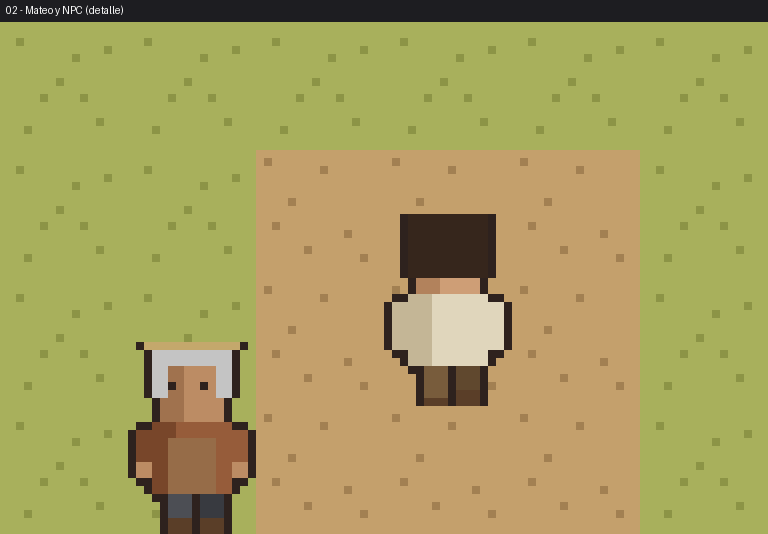
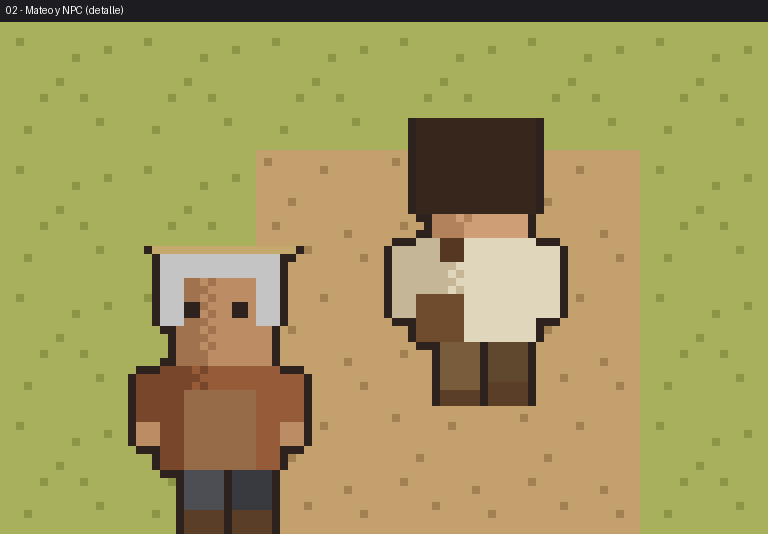
Fase 2 (iteración): documentación y evidencia visual actualizada
Cierra la iteración de fidelidad de personaje post-feedback: hoja de
diseño de personaje, mockup de pueblo ampliado, prompts para ruta de
IA externa, y actualización de ART_BIBLE/PROGRESS/CHANGELOG.

Claude-Session: https://claude.ai/code/session_01JiDXv5Gpd2daCXYkNaACtU

Changed region(s): [[0.1562, 0.4494, 0.4062, 1.0], [0.5, 0.2097, 0.75, 0.779]]

diff --git a/game-client/ART_PROMPTS_EXTERNAL_AI.md b/game-client/ART_PROMPTS_EXTERNAL_AI.md
@@ -1,0 +1,144 @@
+# ART_PROMPTS_EXTERNAL_AI.md — LEGADO: PERÚ
+
+Prompts de referencia para producir arte de mayor fidelidad con una herramienta de generación de imágenes (Midjourney, Stable Diffusion, DALL·E, etc.) que el usuario ejecute externamente. **Yo no tengo acceso a ningún generador de imágenes en este entorno** — este documento existe para que tú (u otra persona con esa herramienta) puedas producir arte de referencia/mayor calidad, que luego yo integro al proyecto (import a Unity, ajuste de paleta/tamaño, slicing si aplica).
+
+## Cómo usar este documento
+
+1. Copia el prompt de la sección que necesites en tu herramienta de generación de imágenes.
+2. Genera varias variantes y elige la que mejor encaje.
+3. Pásame la imagen resultante (o dime dónde la dejaste) — la integro al pipeline (recorte, paleta, importación a Unity) y actualizo `ART_BIBLE_v0.1.md`/`HISTORICAL_RESEARCH.md` según corresponda.
+4. Todo lo generado con estos prompts sigue sujeto a la Regla de la Fase 2: **nada de estilo Pokémon ni de ningún juego existente**, identidad visual peruana, sin filtro "sepia".
+
+## Reglas para cualquier prompt que uses (inclúyelas siempre)
+
+- `original character design, NOT Pokemon, NOT based on any existing game or franchise`
+- `Peruvian coastal identity (Pisco/Paracas region, 1820), historically-inspired but not photorealistic`
+- `flat/limited color palette suitable for a 2D top-down RPG, no sepia/vintage photo filter — colors are vivid and period-accurate, not faded`
+- Si generas sprites de personaje: `top-down 3/4 perspective RPG sprite, NOT front-facing portrait` (los modelos de imagen tienden a dar retratos frontales por defecto; hay que insistir en la perspectiva cenital).
+
+---
+
+## 1. Mateo Salazar — Juventud (17 años, protagonista del vertical slice)
+
+```
+Original pixel-art RPG character sprite sheet, top-down 3/4 perspective (Game Boy Advance
+era RPG style — Golden Sun/early 2000s handheld RPG aesthetic), NOT Pokemon, NOT based on
+any existing game.
+
+Character: Mateo Salazar, 17 years old, young man from a coastal Peruvian merchant/
+transport family, Pisco/Paracas region, September 1820. NOT a fantasy hero — an ordinary
+working-class young man. Short dark brown hair, warm olive-tan skin, cream/off-white linen
+shirt, rolled brown trousers, leather sandals, a rust-red woven sash (faja) at the waist,
+a small brown leather satchel bag crossed over one shoulder. No hat.
+
+Sprite sheet layout: 4 directions (down/front, up/back, left, right), 3 frames per
+direction (idle, walk step A, walk step B). Flat 2D pixel art, 1px dark brown outline
+(not pure black), 3-tone cel shading with a light dithered transition between shadow and
+base tones (no smooth gradients). Character proportions: slightly large head (mild chibi
+ratio), body about 1.5 tiles wide x 2.25 tiles tall relative to a 16px tile grid.
+
+Peruvian coastal identity, historically-inspired clothing (NEEDS validation against real
+sources), vivid arid/ocher coastal color palette — no sepia or vintage filter.
+```
+
+## 2. Mateo Salazar — Niñez (~7 años)
+
+```
+Same original character (Mateo Salazar) as a ~7 year old child, same pixel-art RPG sprite
+style (top-down 3/4, GBA-era handheld RPG aesthetic, NOT Pokemon). Exaggerated chibi
+proportions (larger head, shorter torso and legs than the adult version), barefoot, simple
+cream shirt, no sash, no satchel, no accessories yet. Same dark brown hair and warm skin
+tone as the adult version for visual continuity across life stages. 4-direction sprite
+sheet (down/up/left/right), 3 frames each (idle + 2 walk frames), same flat shading +
+light dithering style as the reference adult sprite.
+```
+
+## 3. NPC — Anciano Pescador (Pisco/Paracas, ambientación)
+
+```
+Original pixel-art RPG NPC sprite, top-down 3/4 perspective, GBA-era handheld RPG
+aesthetic, NOT Pokemon, NOT based on any existing game.
+
+Character: elderly Peruvian fisherman, coastal Pisco/Paracas 1820. Grey short hair, wide-
+brim straw/palm hat, weathered warm-brown skin, rust/ochre work shirt, dark grey rolled
+trousers, simple apron. Distinct silhouette from a younger character (stockier build, hat,
+apron) — must NOT read as a recolor of a young character. 4-direction sprite sheet
+(down/up/left/right), 3 frames each. Same flat cel-shading + dithered transitions style,
+1px dark brown outline. Vivid coastal color palette, no sepia filter.
+```
+
+## 4. NPC — Comerciante (mercado, referencia de variedad)
+
+```
+Original pixel-art RPG NPC sprite, top-down 3/4 perspective, GBA-era handheld RPG
+aesthetic, NOT Pokemon.
+
+Character: Peruvian coastal trader/shopkeeper, coastal Pisco/Paracas 1820. Short dark
+hair, no hat, deep indigo/purple-dyed shirt (indicates a merchant who can afford dyed
+cloth, contrast with working-class characters), dark grey trousers. Confident stance.
+Silhouette and palette must be clearly distinct from both Mateo and the fisherman NPC —
+no recolors. 4-direction sprite sheet, 3 frames each, same shading/outline style as the
+other sprites for consistency.
+```
+
+## 5. Casa Salazar (exterior)
+
+```
+Original pixel-art RPG building exterior, top-down 3/4 perspective, GBA-era handheld RPG
+tileset style, NOT Pokemon, NOT based on any existing game's specific building design.
+
+A modest adobe (mud-brick) house with a thatched/quincha roof (cane and mud construction,
+period-appropriate for Peruvian coast, 1820 — NEEDS_HISTORICAL_VALIDATION), single wooden
+door, small windows. Warm ocher/tan adobe walls, brown woven-look roof texture. Building
+footprint approximately 7x5 tiles on a 16px tile grid. Belongs to a modest merchant/
+transport family, not wealthy, not a hovel — comfortable working-class home. Vivid arid
+coastal palette, no sepia filter.
+```
+
+## 6. Pueblo / HUB de Pisco-Paracas (vista general, referencia de composición)
+
+```
+Original pixel-art RPG top-down map/town composition, GBA-era handheld RPG aesthetic
+(compact, memorable, walkable town layout), NOT Pokemon, NOT based on Littleroot Town or
+any other existing game's specific map design — inspiration is ONLY in density/perspective/
+scale, not in any specific building shapes or palette from an existing game.
+
+A small compact Peruvian coastal fishing/trading settlement, Pisco/Paracas, 1820. Mix of
+modest adobe houses with thatched roofs, a small warehouse (almacén) with a slightly
+different cooler-toned wall, a small market area, a well, scattered trees and low arid
+coastal vegetation (not dense jungle — arid/ocher/scrub vegetation), dirt paths connecting
+buildings, transitioning to a sandy beach and ocean at one edge. Populated with 2-3 small
+NPC sprites doing everyday activities. Geographic compression is intentional (compact,
+not 1:1 real scale) while keeping a believable sense of orientation. Vivid warm coastal
+color palette (ochre, sand, adobe tan, ocean blue) — no sepia/vintage filter, no fantasy
+elements.
+```
+
+## 7. Paleta de referencia (para mantener consistencia si generas variantes)
+
+Si tu herramienta admite fijar una paleta o quieres pedir "usa estos colores", estos son los tonos ya validados en el pipeline programático (`tools/art-pipeline/generate_milestone_2_1_assets.py`):
+
+| Uso | Hex |
+|---|---|
+| Piel (Mateo) | `#CE9E76` |
+| Piel sombra | `#B2825C` |
+| Cabello (Mateo) | `#362618` |
+| Camisa (Mateo) | `#E0D6BC` |
+| Camisa sombra | `#C4B696` |
+| Pantalón | `#785C3C` |
+| Faja/sash | `#A84E2E` |
+| Bolso/satchel | `#704C2E` |
+| Césped | `#A8B05C` |
+| Camino de tierra | `#C4A06C` |
+| Arena | `#E6D2A0` |
+| Agua | `#3E7694` |
+| Pared adobe | `#D6B284` |
+| Techo (thatch) | `#A87C3E` |
+
+## 8. Qué hago yo con el resultado
+
+Una vez me pases las imágenes generadas:
+1. Verifico que cumplen la Regla de originalidad (no debe ser reconociblemente derivado de un juego existente) antes de integrarlas.
+2. Las recorto/ajusto a los tamaños de canvas del proyecto (24×36 personaje adulto, 24×30 niño, 16×16 tiles) si no vienen ya en esa escala.
+3. Las importo a `Assets/_Project/Art/Generated/` (o una carpeta `Assets/_Project/Art/External/` separada, para distinguir origen) con la configuración pixel-perfect correspondiente.
+4. Actualizo `ART_BIBLE_v0.1.md` marcando qué assets son "programáticos" (Pillow) vs. "generados externamente" (IA), y `HISTORICAL_RESEARCH.md` si el diseño pretende representar algo históricamente específico.

diff --git a/game-client/ART_BIBLE_v0.1.md b/game-client/ART_BIBLE_v0.1.md
@@ -25,9 +25,20 @@ Referencia de sensación (**no de copia**, prompt Fase 2 — leer antes de nada)
 | Rendimiento (relevante para móvil gama baja, ver `10_MOBILE_PERFORMANCE.md`) | ✅ Texturas más pequeñas, más tiles por atlas, menos memoria por escena | Mayor huella de memoria por la misma área de mundo |
 | Producción sostenible (un tile menos "espacio" que rellenar de detalle por pieza) | ✅ Más rápido de producir de forma consistente | Cada pieza exige más decisiones de detalle |
 
-**Personajes**: 16 px de ancho × 24 px de alto (1 tile de ancho × 1.5 tiles de alto, dentro del rango pedido por el prompt §2). Se probó también un personaje de 32×48 (upscale 2x de la misma silueta, ver comparación) únicamente para validar cobertura de pantalla, no como diseño independiente — si en el futuro se decide producir contenido a 32px, se rediseñaría con detalle propio, no solo escalando.
+**Personajes: 24 px de ancho × 36 px de alto** (revisado — ver "Revisión de fidelidad de personaje" más abajo). Equivale a 1.5 tiles de ancho × 2.25 tiles de alto a PPU=16; ligeramente por encima del rango original del prompt (1-2 tiles de alto) por decisión deliberada de legibilidad, aprobada explícitamente tras feedback visual. El **mundo** (tiles de terreno/construcción) se mantiene en 16×16 — solo el personaje creció, el tile no.
 
-**Pixels Per Unit en Unity: 16.** 1 unidad de mundo = 1 tile = 16 px nativos.
+**Pixels Per Unit en Unity: 16.** 1 unidad de mundo = 1 tile = 16 px nativos. (El personaje usa el mismo PPU; su sprite ocupa más de 1 unidad porque su canvas nativo es más grande, no porque tenga un PPU distinto — evita tener que gestionar dos escalas de importación).
+
+### Revisión de fidelidad de personaje (post Milestone 2.1, antes de aprobar 2.2)
+
+Tras mostrar el primer mockup, feedback del usuario: quería algo más cercano a una referencia con acabado "moderno" (sombreado suave, más detalle) y explícitamente **no** quería alejarse de la técnica pixel-art declarada como definitiva en el prompt de Fase 2. Decisión resultante (y única aplicada — se descartaron tanto "dejar igual" como "abandonar pixel art por completo"):
+
+1. **Sprite 1.5x más grande**: de 16×24 a 24×36 nativos. Más espacio de trabajo por personaje sin cambiar el tile de mundo.
+2. **Dithering en las costuras sombra/base** (`dither_band()` en el pipeline): en vez de un borde duro de 2 tonos, una franja de 2px con patrón de tablero mezclando ambos tonos — técnica real de "pixel art moderno" (Eastward, Stardew Valley) que rompe el look de "bloque plano" sin introducir gradientes suaves ni salir de una paleta indexada.
+3. **Tercer tono** (highlight) en piel/camisa/cabello, y accesorios nuevos (faja/sash, bolso/satchel cruzado) que añaden quiebres de silueta y color.
+4. **No se tocó**: perspectiva cenital, tile de mundo a 16px, animación por frames (no interpolada), outline de silueta. La técnica sigue siendo 100% pixel art tile-based — el ajuste fue de detalle/fidelidad, no de dirección.
+
+Techo de calidad reconocido: esto sigue sin acercarse al acabado pictórico de una referencia generada por IA de imágenes; es la mejora máxima razonable dentro de un pipeline programático (Python/Pillow) dibujando rectángulos. Ver `ART_PROMPTS_EXTERNAL_AI.md` para la vía de producción de arte de mayor fidelidad si se decide usarla más adelante.
 
 ## 3. Pixel perfect (prompt §17)
 
@@ -116,7 +127,8 @@ No se aplica ningún filtro global por año. Los cambios entre 1821 y 1920 (Mile
 |---|---|
 | Tile de terreno (suelo/camino/arena/agua) | 16×16 px |
 | Tile de construcción (pared/techo/puerta) | 16×16 px |
-| Personaje (bounding box) | 16×24 px |
+| Personaje adulto (bounding box) | 24×36 px (revisado, ver §4) |
+| Personaje niño (bounding box) | 24×30 px |
 | Árbol | 32×32 px (prop, no tile) |
 | Poste/cerca | 16×16 px (prop delgado) |
 

diff --git a/game-client/PROGRESS.md b/game-client/PROGRESS.md
@@ -23,6 +23,10 @@ FASE 2 — PRIMER VERTICAL SLICE VISUAL (Pisco/Paracas, sept. 1820)
 ✓ UI mínima (prompt de interacción) integrada en la escena 2D
 ✓ Mockups visuales compuestos a partir del pixel art real (vista general, personaje+NPC, diálogo, comparación de escala, variante nocturna) + 2 GIFs de animación
 ✓ Cámara 3D de Fase 1 retirada por completo (prompt §16)
+✓ Iteración de fidelidad de personaje (feedback visual del usuario): sprite 1.5x más grande (24×36), dithering en costuras de sombra, tercer tono, faja + bolso, etapa "Niñez" (~7 años) como prueba del sistema de envejecimiento visual
+✓ Hoja de diseño de personaje ("character design sheet") con ambas etapas, ciclos de caminata y detalle de items
+✓ Mockup de pueblo ampliado (segundo edificio con paleta distinta, pozo, arbustos, 3 NPC diferenciados) — validación de variedad arquitectónica sin copiar Littleroot Town ni ningún otro mapa existente
+✓ `ART_PROMPTS_EXTERNAL_AI.md`: vía de producción de arte de mayor fidelidad con generador de imágenes externo, para cuando se decida usarla
 
 ## EN DESARROLLO
 
@@ -57,6 +61,7 @@ FASE 2 — PRIMER VERTICAL SLICE VISUAL (Pisco/Paracas, sept. 1820)
 
 `Progress/Phase_02/Milestone_01/`:
 - `01_vista_general.png`, `02_personaje_y_npc.png`, `03_interfaz_dialogo.png`, `04_comparacion_escala_tiles.png`, `05_variante_nocturna.png`
+- `06_character_design_sheet.png` (hoja de diseño Niñez/Juventud), `07_pueblo_ampliado.png` (mockup con 2 edificios + pozo + 3 NPC)
 - `mateo_walk_cycle.gif`, `mateo_scene_walk.gif`
 
 Nota de honestidad (ver `PHASE_01_IMPLEMENTATION.md` §0): estas imágenes son **mockups compuestos a partir del pixel art real** (generado por `tools/art-pipeline/generate_milestone_2_1_assets.py`), no capturas del motor Unity en ejecución — este entorno de desarrollo no tiene Unity Editor disponible. El código de la escena jugable (`Phase2LookAndFeelSceneBuilder.cs`) usa exactamente estos mismos assets con el mismo layout, así que lo que se vería al ejecutar el proyecto en Unity debería coincidir visualmente con estos mockups, pero eso está pendiente de confirmación real.

diff --git a/game-client/CHANGELOG.md b/game-client/CHANGELOG.md
@@ -2,6 +2,22 @@
 
 Formato libre, agrupado por build (prompt Fase 2 §46). Versionado: `MAJOR.PHASE.MILESTONE-dev` (ver §45 del prompt Fase 2 y `BuildInfo.cs`).
 
+## BUILD 0.2.2-dev — Phase 2, Milestone 2.1 (iteración de fidelidad visual)
+
+Iteración sobre el mismo milestone tras feedback visual directo del usuario (no un milestone nuevo).
+
+### Added
+- `dither_band()` en el pipeline de arte: transición de sombra con patrón de tablero (ordered dithering) en vez de borde duro de 2 tonos.
+- Tercer tono (highlight) en piel/camisa/cabello de Mateo; accesorios nuevos: faja/sash y bolso/satchel cruzado.
+- `draw_child()`: etapa "Niñez" (~7 años) de Mateo, proporción chibi acentuada — primera prueba visual del sistema de envejecimiento (`CharacterVisualDefinition`, ver ART_BIBLE §4).
+- Iconos de detalle de item (`icon_satchel`, `icon_sash`, `icon_family_seal`).
+- `tools/art-pipeline/generate_design_sheet_and_town.py`: hoja de diseño de personaje (`06_character_design_sheet.png`) y mockup de pueblo ampliado con segundo edificio, pozo, arbustos y 3 NPC diferenciados (`07_pueblo_ampliado.png`).
+- `ART_PROMPTS_EXTERNAL_AI.md`: prompts de referencia para producir arte de mayor fidelidad con un generador de imágenes externo (ruta alternativa a este pipeline programático).
+
+### Changed
+- Tamaño nativo de sprite de personaje: 16×24 → **24×36** (adulto), 24×30 (niño) — decisión revisada explícitamente en `ART_BIBLE_v0.1.md` (sigue siendo pixel art tile-based; el tile de mundo permanece en 16×16, no cambió la técnica, solo la fidelidad del personaje).
+- `Phase2LookAndFeelSceneBuilder.cs`: ancla de pies del sprite recalculada para el nuevo tamaño (`CharacterFeetAnchorY`).
+
 ## BUILD 0.2.1-dev — Phase 2, Milestone 2.1 (Look & Feel)
 
 ### Added
